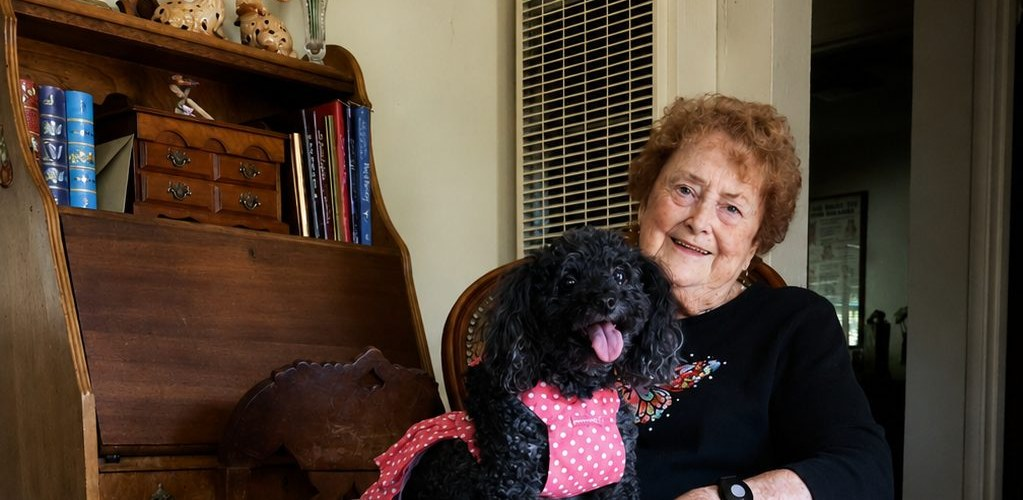
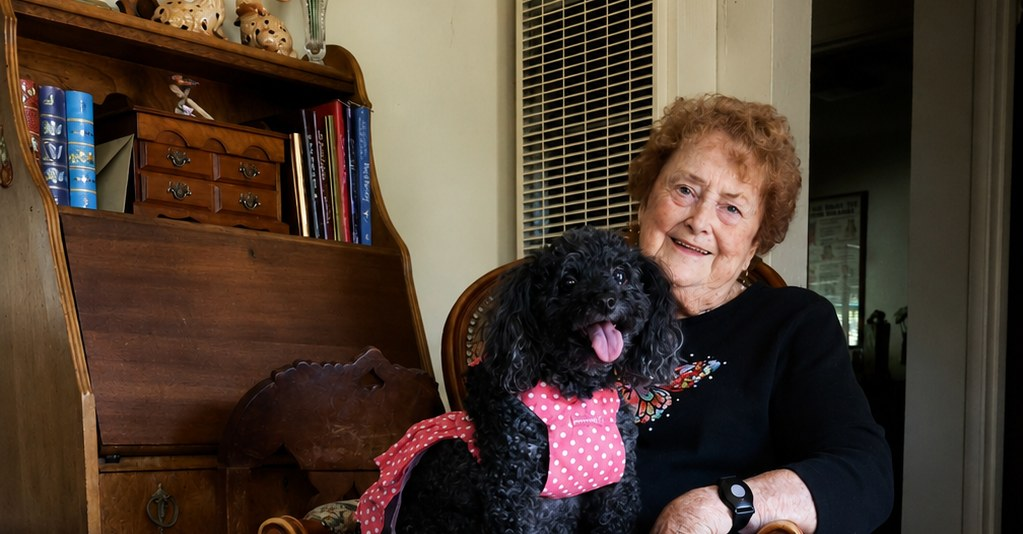
Match email 2 hero size; make email 3 photo slightly taller
- Email 2: swap Joyce hero from uncropped portrait Constant Contact file to local cropped joyce.jpg (1200x860), matching the other emails
- Email 3: re-crop shirley.jpg taller at the bottom (500->534px), ~20px taller at 600px display width

diff --git a/emails/Email_2_How_It_Works_Joyce.html b/emails/Email_2_How_It_Works_Joyce.html
@@ -19,7 +19,7 @@
       <div style="font-size:16px; color:#264b1f; margin-top:2px;">Help save AniMeals</div>
     </td></tr>
     <tr><td style="padding:0;">
-      <img src="https://files.constantcontact.com/f65fd31f301/b1c02469-b5bb-4948-925c-6dd48162fac3.jpg" alt="Joyce and her dog Daniel" width="600" style="width:100%; max-width:600px; height:auto; display:block;">
+      <img src="https://mtilt24.github.io/animeals-email-preview/emails/img/joyce.jpg" alt="Joyce and her dog Daniel" width="600" style="width:100%; max-width:600px; height:auto; display:block;">
     </td></tr>
     <tr><td style="padding:32px;">
             <p style="font-size:16px; line-height:1.6; margin:0 0 16px 0;">Friend of Seniors First,</p>